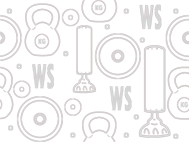
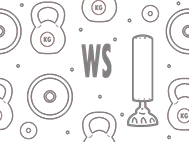
Fixed scrolling!

diff --git a/templates/core/base.html b/templates/core/base.html
@@ -201,11 +201,25 @@
         {%block chat_bottom%}
             <script>            
             $(document).ready(function() {
-                document.body.addEventListener('htmx:afterSwap', function(evt) {  
+                document.body.addEventListener('htmx:afterSwap', function(evt) {
+                    if (evt.detail.pathInfo.requestPath.includes("message-window")){
+                        try{
+                            $(evt.target.lastElementChild).scrollTop($(evt.target.lastElementChild)[0].scrollHeight - $(evt.target.lastElementChild)[0].clientHeight);
+                        }catch{}
+                        
+                    
+                    }
+                });
+                document.body.addEventListener('htmx:oobAfterSwap', function(evt) { 
+                    if ($(evt.detail.target).hasClass('chat_card_body')){                        
+                        $(evt.detail.target).animate({
+                            scrollTop: $(evt.detail.target)[0].scrollHeight - $(evt.detail.target)[0].clientHeight
+                          }, 1000);
+                    }
                 });
                 
                 document.body.addEventListener('htmx', function(evt) { 
-                    console.log(evt)
+                    
                 });
             });
             </script>

diff --git a/templates/messaging/message_window.html b/templates/messaging/message_window.html
@@ -35,3 +35,12 @@
         </form>
     </div>
 </div>
+
+<script>
+    $(document).ready(function() {
+        document.body.addEventListener('htmx:beforeRequest', function(evt) {  
+        });
+        document.body.addEventListener('htmx:afterSwap', function(evt) {              
+        });
+    });
+</script>

diff --git a/staticfiles/css/base.css b/staticfiles/css/base.css
@@ -9,7 +9,7 @@ body {
 .cartoon-background::after {
     background: #efe7dd url(/static/img/background.png) repeat; background-size: 90px !important;
     content: "";
-    opacity: 0.65;
+    opacity: 0.40;
     top: 0;
     left: 0;
     bottom: 0;

diff --git a/whatsapp/views.py b/whatsapp/views.py
@@ -87,7 +87,7 @@ class Webhooks(View):
                             <span id='latest_message_row_{from_number}' hx-swap-oob='delete'></span>
                             <span id='messageCollapse_{whatsappnumber.pk}' hx-swap-oob='afterbegin'>{rendered_message_list_row}</span>
 
-                            <span id='messageWindowCollapse_{from_number}' hx-swap-oob='beforeend"'>{rendered_message_chat_row}</span>
+                            <span id='messageWindowCollapse_{from_number}' hx-swap-oob='beforeend'>{rendered_message_chat_row}</span>
                             """
                             async_to_sync(channel_layer.group_send)(
                                 f"messaging_{whatsappnumber.pk}",
